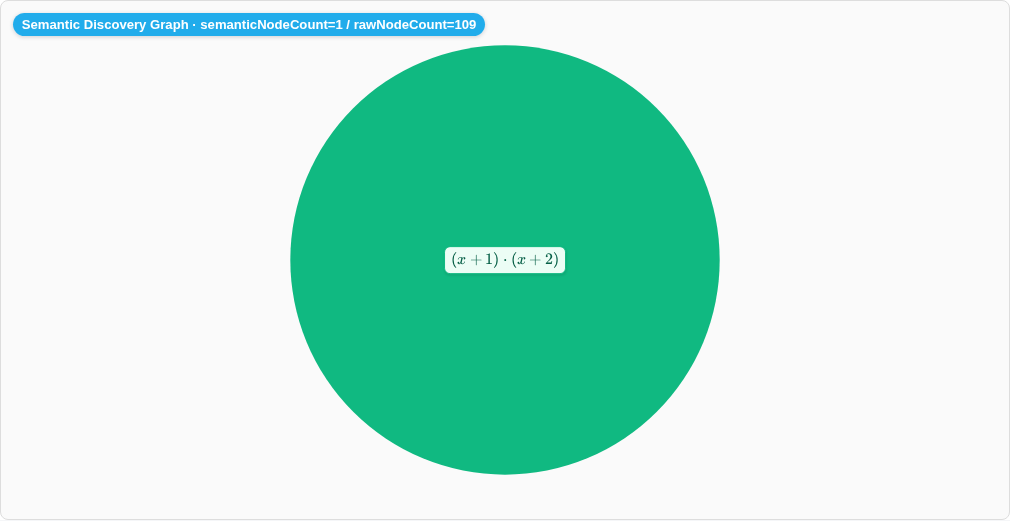
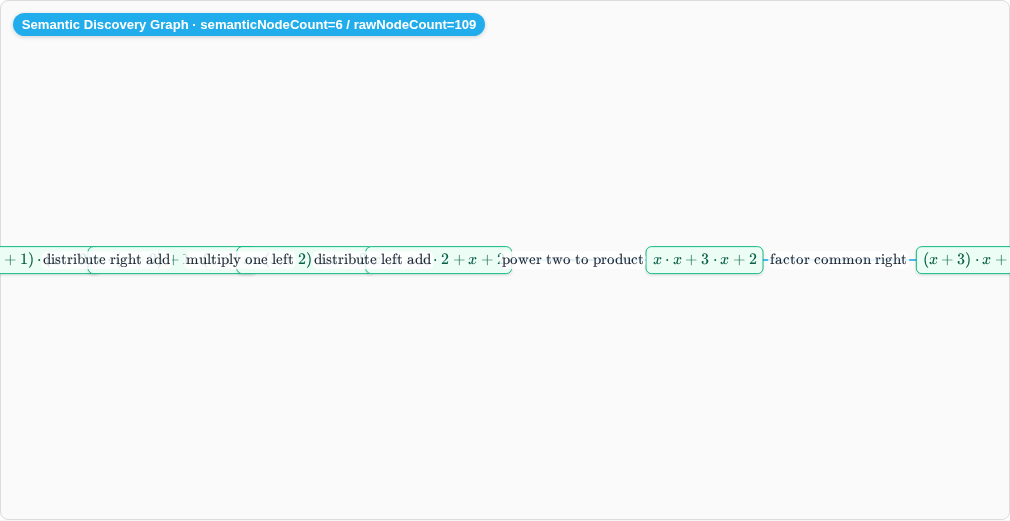
Preserve explanatory semantic graph paths

Changed region(s): [[0.0, 0.0614, 1.0, 0.9213]]

diff --git a/app/src/test/java/de/regelsuche/api/searchgraph/semantic/SemanticSearchGraphAssemblerTest.java b/app/src/test/java/de/regelsuche/api/searchgraph/semantic/SemanticSearchGraphAssemblerTest.java
@@ -118,13 +118,15 @@ class SemanticSearchGraphAssemblerTest {
             List.of(
                 node("start", 0, 10),
                 node("normalized", 1, 10),
-                node("middle", 2, 7),
-                node("goal", 3, 3),
+                node("normalized-again", 2, 10),
+                node("middle", 3, 7),
+                node("goal", 4, 3),
                 node("branch", 2, 6)
             ),
             List.of(
                 edge("start", "normalized", "ast_canonical_normalize", RewriteKind.NORMALIZE, 0),
-                edge("normalized", "middle", "factor_terms", RewriteKind.SIMPLIFY, -3),
+                edge("normalized", "normalized-again", "sort_terms", RewriteKind.NORMALIZE, 0),
+                edge("normalized-again", "middle", "factor_terms", RewriteKind.SIMPLIFY, -3),
                 edge("middle", "goal", "collect_terms", RewriteKind.SIMPLIFY, -4),
                 edge("start", "branch", "alternative_branch", RewriteKind.SIMPLIFY, -4)
             ),
@@ -138,9 +140,11 @@ class SemanticSearchGraphAssemblerTest {
             List.of(
                 new TransformationStep(0, "start", "normalized",
                     "ast_canonical_normalize", RewriteKind.NORMALIZE, 10, 10, true, ""),
-                new TransformationStep(1, "normalized", "middle",
+                new TransformationStep(1, "normalized", "normalized-again",
+                    "sort_terms", RewriteKind.NORMALIZE, 10, 10, true, ""),
+                new TransformationStep(2, "normalized-again", "middle",
                     "factor_terms", RewriteKind.SIMPLIFY, 10, 7, true, ""),
-                new TransformationStep(2, "middle", "goal",
+                new TransformationStep(3, "middle", "goal",
                     "collect_terms", RewriteKind.SIMPLIFY, 7, 3, true, "")
             )
         );
@@ -157,26 +161,27 @@ class SemanticSearchGraphAssemblerTest {
             8
         );
 
-        assertEquals(3, semantic.nodes().size());
+        assertEquals(4, semantic.nodes().size());
         assertTrue(semantic.nodes().stream().anyMatch(n -> n.representativeExpression().equals("start")));
+        assertTrue(semantic.nodes().stream().anyMatch(n -> n.representativeExpression().equals("normalized")));
         assertTrue(semantic.nodes().stream().anyMatch(n -> n.representativeExpression().equals("middle")));
         assertTrue(semantic.nodes().stream().anyMatch(n -> n.representativeExpression().equals("goal")));
-        assertTrue(semantic.nodes().stream().noneMatch(n -> n.representativeExpression().equals("normalized")));
+        assertTrue(semantic.nodes().stream().noneMatch(n -> n.representativeExpression().equals("normalized-again")));
         assertTrue(semantic.nodes().stream().noneMatch(n -> n.representativeExpression().equals("branch")));
         assertTrue(semantic.edges().size() >= semantic.nodes().size() - 1);
-        assertEquals(3, semantic.nodes().stream().filter(SemanticGraphNodeDto::onMainPath).count());
+        assertEquals(4, semantic.nodes().stream().filter(SemanticGraphNodeDto::onMainPath).count());
 
         Map<String, String> nodeIds = semantic.nodes().stream()
             .collect(Collectors.toMap(SemanticGraphNodeDto::representativeExpression, SemanticGraphNodeDto::id));
         var shortcut = semantic.edges().stream()
-            .filter(e -> e.from().equals(nodeIds.get("start")) && e.to().equals(nodeIds.get("middle")))
+            .filter(e -> e.from().equals(nodeIds.get("normalized")) && e.to().equals(nodeIds.get("middle")))
             .findFirst()
             .orElseThrow();
         assertEquals(SemanticEdgeKind.MAIN_STEP, shortcut.kind());
         assertEquals(1, shortcut.hiddenStepCount());
         assertEquals(List.of(
-            "start->normalized:ast_canonical_normalize",
-            "normalized->middle:factor_terms"
+            "normalized->normalized-again:sort_terms",
+            "normalized-again->middle:factor_terms"
         ), shortcut.sourceEdgeIds());
     }
 

diff --git a/app/src/main/java/de/regelsuche/api/searchgraph/semantic/SemanticSearchGraphAssembler.java b/app/src/main/java/de/regelsuche/api/searchgraph/semantic/SemanticSearchGraphAssembler.java
@@ -404,12 +404,13 @@ public final class SemanticSearchGraphAssembler {
         visibleNodeIds.add(currentVisible);
         List<String> hiddenSources = new ArrayList<>();
         int hiddenSteps = 0;
+        Set<Integer> preservedLowSignalSteps = lowSignalStepsNeededForReadableProjection(mainPath, showLowSignal);
         for (int i = 0; i < mainPath.steps().size(); i++) {
             TransformationStep step = mainPath.steps().get(i);
             String rawId = edgeId(step.beforeExpression(), step.afterExpression(), step.ruleId());
             sourceEdgeIds.add(rawId);
             boolean lowSignal = classifyStepSignal(step) == RewriteSignal.LOW_SIGNAL;
-            if (!showLowSignal && lowSignal) {
+            if (!showLowSignal && lowSignal && !preservedLowSignalSteps.contains(i)) {
                 hiddenSources.add(rawId);
                 hiddenSteps++;
                 continue;
@@ -462,6 +463,38 @@ public final class SemanticSearchGraphAssembler {
         }
         visibleNodeIds.add(goal);
         return new MainPathProjection(dedupeEdges(edges), visibleNodeIds, sourceEdgeIds, dedupeNodes(nodes), shadowedCanonicalNodeIds);
+    }
+
+    private static Set<Integer> lowSignalStepsNeededForReadableProjection(
+        DiscoveredTransformation mainPath,
+        boolean showLowSignal
+    ) {
+        if (showLowSignal || mainPath.steps().size() + 1 < 4) {
+            return Set.of();
+        }
+        int visibleStates = 1;
+        for (TransformationStep step : mainPath.steps()) {
+            if (classifyStepSignal(step) != RewriteSignal.LOW_SIGNAL) {
+                visibleStates++;
+            }
+        }
+        TransformationStep lastStep = mainPath.steps().isEmpty() ? null : mainPath.steps().getLast();
+        if (lastStep != null
+            && classifyStepSignal(lastStep) == RewriteSignal.LOW_SIGNAL
+            && Objects.equals(lastStep.afterExpression(), mainPath.improvedExpression())) {
+            visibleStates++;
+        }
+        int missingStates = Math.max(0, 4 - visibleStates);
+        if (missingStates == 0) {
+            return Set.of();
+        }
+        Set<Integer> preserved = new LinkedHashSet<>();
+        for (int i = 0; i < mainPath.steps().size() && preserved.size() < missingStates; i++) {
+            if (classifyStepSignal(mainPath.steps().get(i)) == RewriteSignal.LOW_SIGNAL) {
+                preserved.add(i);
+            }
+        }
+        return preserved;
     }
 
     private SemanticGraphNodeDto toMainPathNode(
@@ -566,8 +599,7 @@ public final class SemanticSearchGraphAssembler {
             || rule.contains("canonical")
             || rule.contains("normalize")
             || rule.contains("neutral")
-            || rule.contains("identity")
-            || rule.contains("ast_")) {
+            || rule.contains("identity")) {
             return RewriteSignal.LOW_SIGNAL;
         }
         if (step.ruleKind() == de.regelsuche.transform.RewriteKind.NORMALIZE) {

diff --git a/app/src/main/java/de/regelsuche/api/searchgraph/semantic/WeightedMainPathSelector.java b/app/src/main/java/de/regelsuche/api/searchgraph/semantic/WeightedMainPathSelector.java
@@ -31,10 +31,22 @@ public final class WeightedMainPathSelector implements MainPathSelector {
             return Optional.empty();
         }
         MainPathCriteria c = criteria == null ? MainPathCriteria.defaults() : criteria;
-        return paths.stream()
+        List<DiscoveredTransformation> candidates = paths.stream()
+            .filter(this::isNonDegenerate)
+            .toList();
+        if (candidates.isEmpty()) {
+            candidates = paths;
+        }
+        return candidates.stream()
             .max(Comparator.comparingDouble((DiscoveredTransformation p) -> score(p, rawGraph, c))
                 .thenComparingInt(DiscoveredTransformation::totalImprovement)
                 .thenComparing(p -> p.id() == null ? "" : p.id()));
+    }
+
+    private boolean isNonDegenerate(DiscoveredTransformation path) {
+        return path != null
+            && !Objects.equals(path.originalExpression(), path.improvedExpression())
+            && !path.steps().isEmpty();
     }
 
     private double score(DiscoveredTransformation path, SearchGraphDto rawGraph, MainPathCriteria c) {
@@ -44,10 +56,37 @@ public final class WeightedMainPathSelector implements MainPathSelector {
         return c.complexityReductionWeight() * path.totalImprovement()
             + c.proofConfidenceWeight() * path.validationStatus().ordinal()
             + c.macroCompressionWeight() * macroSteps
+            + 0.9 * explanatoryStepCount(path, rawGraph)
             + c.teachingScoreWeight() * Math.max(0, path.totalImprovement() - path.steps().size())
             - c.lowSignalPenalty() * lowSignal
             - c.lengthPenalty() * path.steps().size()
             - c.assumptionPenalty() * assumptions;
+    }
+
+    private int explanatoryStepCount(DiscoveredTransformation path, SearchGraphDto rawGraph) {
+        int count = 0;
+        for (TransformationStep step : path.steps()) {
+            if (step.ruleKind() == de.regelsuche.transform.RewriteKind.EXPAND || step.ruleKind() == de.regelsuche.transform.RewriteKind.SIMPLIFY) {
+                count++;
+                continue;
+            }
+            boolean highOrMedium = false;
+            if (rawGraph != null) {
+                for (SearchGraphEdgeDto edge : rawGraph.edges()) {
+                    if (edge.from().equals(step.beforeExpression())
+                        && edge.to().equals(step.afterExpression())
+                        && edge.ruleId().equals(step.ruleId())
+                        && classifier.classify(edge) != RewriteSignal.LOW_SIGNAL) {
+                        highOrMedium = true;
+                        break;
+                    }
+                }
+            }
+            if (highOrMedium) {
+                count++;
+            }
+        }
+        return count;
     }
 
     private int countLowSignal(DiscoveredTransformation path, SearchGraphDto rawGraph) {

diff --git a/app/src/e2eTest/java/de/regelsuche/e2e/BrowserDemoFlowTest.java b/app/src/e2eTest/java/de/regelsuche/e2e/BrowserDemoFlowTest.java
@@ -630,8 +630,10 @@ class BrowserDemoFlowTest {
                 + "   return payload.explicitEndpoint !== true;"
                 + " }).length;"
                 + "}")).intValue();
-        assertTrue(intermediateNodeCount > 0,
-            fileName + " must include at least one non-endpoint intermediate node");
+        if (!allowsGenuineOneStepDerivation(fileName)) {
+            assertTrue(intermediateNodeCount > 0,
+                fileName + " must include at least one non-endpoint intermediate node");
+        }
         int endpointNodeCount = ((Number) page.evaluate(
             "() => {"
                 + " const cy = window.__cyForTests;"
@@ -641,8 +643,10 @@ class BrowserDemoFlowTest {
                 + "   return payload.explicitEndpoint === true;"
                 + " }).length;"
                 + "}")).intValue();
-        assertTrue(graphNodeCount > endpointNodeCount,
-            fileName + " must not collapse to only seed and goal nodes");
+        if (!allowsGenuineOneStepDerivation(fileName)) {
+            assertTrue(graphNodeCount > endpointNodeCount,
+                fileName + " must not collapse to only seed and goal nodes");
+        }
         int visibleEdgeLabelCount = ((Number) page.evaluate(
             "() => document.querySelectorAll("
                 + "'#graphCanvas .graph-overlay-layer .graph-edge-math .katex'"
@@ -680,7 +684,7 @@ class BrowserDemoFlowTest {
             return 4;
         }
         if (fileName.contains("trigonometry")) {
-            return 3;
+            return 2;
         }
         return 3;
     }
@@ -690,9 +694,13 @@ class BrowserDemoFlowTest {
             return 3;
         }
         if (fileName.contains("trigonometry")) {
-            return 2;
+            return 1;
         }
         return 2;
+    }
+
+    private boolean allowsGenuineOneStepDerivation(String fileName) {
+        return fileName.contains("trigonometry");
     }
 
     private void assertSemanticGraphRequestState(String fileName) {

diff --git a/app/src/main/java/de/regelsuche/api/searchgraph/semantic/RewriteSignalClassifier.java b/app/src/main/java/de/regelsuche/api/searchgraph/semantic/RewriteSignalClassifier.java
@@ -31,7 +31,6 @@ public final class RewriteSignalClassifier {
             || rule.contains("canonical")
             || rule.contains("normalize")
             || rule.contains("neutral")
-            || rule.contains("identity")
-            || rule.contains("ast_");
+            || rule.contains("identity");
     }
 }
